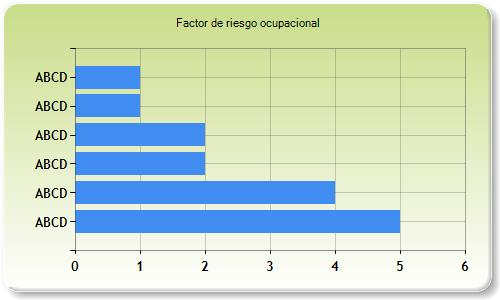
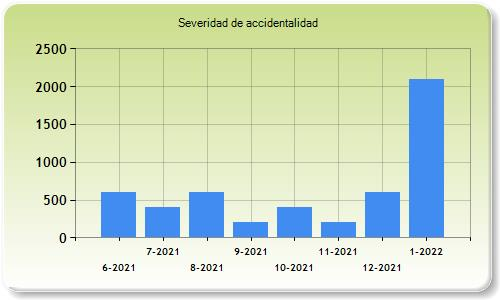
implementación matriz de riesgos pdf

diff --git a/WSafe/WSafe.Web/Models/MatrizRiesgosVM.cs b/WSafe/WSafe.Web/Models/MatrizRiesgosVM.cs
@@ -1,0 +1,109 @@
+using System.Collections.Generic;
+using System.ComponentModel.DataAnnotations;
+
+namespace WSafe.Web.Models
+{
+    public class MatrizRiesgosVM
+    {
+        public int ID { get; set; }
+        public string Formato { get; set; }
+        public string Estandar { get; set; }
+        public string Titulo { get; set; }
+        public string Fecha { get; set; }
+        public string Version { get; set; }
+        [Display(Name = "Proceso")]
+        public string Proceso { get; set; }
+        [Display(Name = "Zona / Lugar")]
+        public string Zona { get; set; }
+        [Display(Name = "Actividades")]
+        public string Actividad { get; set; }
+        public bool Rutinaria { get; set; }
+        [Display(Name = "Clasificación")]
+        public string CategoriaPeligro { get; set; }
+        [Display(Name = "Descripción")]
+        public string Peligro { get; set; }
+        [Display(Name = "Efectos posibles")]
+        public string EfectosPosibles { get; set; }
+        public string Fuente { get; set; }
+        public string Medio { get; set; }
+        public string Individuo { get; set; }
+
+        [Display(Name = "ND")]
+        public int NivelDeficiencia { get; set; }
+        [Display(Name = "NE")]
+        public int NivelExposicion { get; set; }
+        [Display(Name = "NP")]
+        public int NivelProbabilidad
+        {
+            get
+            {
+                return NivelDeficiencia * NivelExposicion;
+            }
+        }
+        [Display(Name = "Interpretación NP")]
+        public string InterpretacionNP
+        {
+            get
+            {
+                switch (NivelProbabilidad)
+                {
+                    case int p when (p >= 24):
+                        return "Muy alto (MA)";
+
+                    case int p when (p >= 10 && p < 24):
+                        return "Alto (A)";
+
+                    case int p when (p >= 8 && p < 10):
+                        return "Mdio (M)";
+
+                    default:
+                        return "Bajo (B)";
+                }
+
+            }
+        }
+        [Display(Name = "NC")]
+        public int NivelConsecuencia { get; set; }
+        [Display(Name = "NR")]
+        public int NivelRiesgo
+        {
+            get
+            {
+                return NivelProbabilidad * NivelConsecuencia;
+            }
+        }
+
+        [Display(Name = "Interpretación NR")]
+        public string CategoriaRiesgo
+        {
+            get
+            {
+                switch (NivelRiesgo)
+                {
+                    case int nr when (nr >= 600):
+                        return "I";
+
+                    case int nr when (nr >= 150 && nr < 600):
+                        return "II";
+
+                    case int nr when (nr >= 40 && nr < 150):
+                        return "III";
+
+                    default:
+                        return "IV";
+                }
+            }
+        }
+        [Display(Name = "Aceptabilidad NR")]
+        public string AceptabilidadNR { get; set; }
+        [Display(Name = "Significado NR")]
+        public string SignificadoNR { get; set; }
+        [Display(Name = "Nro. Expuestos")]
+        public int NroExpuestos { get; set; }
+        [Display(Name = "Peor consecuencia")]
+        public string PeroConsecuencia { get; set; }
+        [Display(Name = "Requisito legal")]
+        public bool RequisitoLegal { get; set; }
+        public ICollection<IntervencionVM> Intervenciones { get; set; }
+    }
+}

diff --git a/WSafe/WSafe.Web/Helpers/Implements/ConverterHelper.cs b/WSafe/WSafe.Web/Helpers/Implements/ConverterHelper.cs
@@ -664,5 +664,37 @@ namespace WSafe.Domain.Helpers.Implements
             }
             return model;
         }
+
+        public IEnumerable<MatrizRiesgosVM> ToRiesgoViewModelFul(IEnumerable<Riesgo> riesgo, int id)
+        {
+            var document = _empresaContext.Documents.FirstOrDefault(d => d.ID == id);
+            var model = new List<MatrizRiesgosVM>();
+            foreach (var item in riesgo)
+            {
+                model.Add(new MatrizRiesgosVM
+                {
+                    ID = item.ID,
+                    Formato = document.Formato,
+                    Estandar = document.Estandar,
+                    Titulo = document.Titulo,
+                    Version = document.Version,
+                    Proceso = item.Proceso.Descripcion,
+                    Zona = item.Zona.Descripcion,
+                    Actividad = item.Actividad.Descripcion,
+                    Rutinaria = item.Rutinaria,
+                    CategoriaPeligro = _empresaContext.CategoriasPeligros.Find(item.Peligro.CategoriaPeligroID).Descripcion,
+                    Peligro = item.Peligro.Descripcion,
+                    EfectosPosibles = _gestorHelper.GetEfectos(item.EfectosPosibles),
+                    NivelDeficiencia = item.NivelDeficiencia,
+                    NivelExposicion = item.NivelExposicion,
+                    Fuente = item.fue
+                    NivelConsecuencia = item.NivelConsecuencia,
+                    Aceptabilidad = item.Aceptabilidad,
+                    NroExpuestos = item.NroExpuestos,
+                    RequisitoLegal = item.RequisitoLegal
+                });
+            }
+            return model;
+        }
     }
 }

diff --git a/WSafe/WSafe.Web/Helpers/Implements/GestorHelper.cs b/WSafe/WSafe.Web/Helpers/Implements/GestorHelper.cs
@@ -298,5 +298,32 @@ namespace WSafe.Domain.Helpers.Implements
                     return "Auditoria Interna  de Calidad o de Gestión";
             }
         }
+
+        public string GetEfectos(EfectosPosibles efecto)
+        {
+            switch (efecto)
+            {
+                case EfectosPosibles.Daño_Extremo:
+                    return "Daño extremo";
+
+                case EfectosPosibles.Daño_Leve:
+                    return "Daño leve";
+
+                case EfectosPosibles.Daño_Moderado:
+                    return "Daño Moderado";
+
+                case EfectosPosibles.Daño_Propiedad:
+                    return "Daño a la propiedad";
+
+                case EfectosPosibles.Fallas_procesos:
+                    return "Fallas en los procesos";
+
+                case EfectosPosibles.Pérdidas_económicas:
+                    return "Persidas económicas";
+
+                default:
+                    return "Nomina";
+            }
+        }
     }
 }

diff --git a/WSafe/WSafe.Web/Migrations/202204141650332_CreateIntervencionesVM.Designer.cs b/WSafe/WSafe.Web/Migrations/202204141650332_CreateIntervencionesVM.Designer.cs
@@ -1,0 +1,29 @@
+// <auto-generated />
+namespace WSafe.Web.Migrations
+{
+    using System.CodeDom.Compiler;
+    using System.Data.Entity.Migrations;
+    using System.Data.Entity.Migrations.Infrastructure;
+    using System.Resources;
+    
+    [GeneratedCode("EntityFramework.Migrations", "6.1.3-40302")]
+    public sealed partial class CreateIntervencionesVM : IMigrationMetadata
+    {
+        private readonly ResourceManager Resources = new ResourceManager(typeof(CreateIntervencionesVM));
+        
+        string IMigrationMetadata.Id
+        {
+            get { return "202204141650332_CreateIntervencionesVM"; }
+        }
+        
+        string IMigrationMetadata.Source
+        {
+            get { return null; }
+        }
+        
+        string IMigrationMetadata.Target
+        {
+            get { return Resources.GetString("Target"); }
+        }
+    }
+}

diff --git a/WSafe/WSafe.Web/Controllers/RiesgosController.cs b/WSafe/WSafe.Web/Controllers/RiesgosController.cs
@@ -41,6 +41,20 @@ namespace WSafe.Web.Controllers
             return View(modelo);
         }
 
+        public async Task<ActionResult> GetAll()
+        {
+            var list = await _empresaContext.Riesgos.Include(z => z.Zona)
+                .Include(p => p.Proceso)
+                .Include(a => a.Actividad)
+                .Include(t => t.Tarea)
+                .Include(cp => cp.Peligro)
+                .Include(mi => mi.MedidasIntervencion)
+                .OrderByDescending(cr => cr.NivelRiesgo)
+                .ToListAsync();
+            var modelo = _converterHelper.ToRiesgoViewModelFul(list, 8);
+            return View(modelo);
+        }
+
         // GET: Riesgos/Details/5
         public async Task<ActionResult> Details(int? id)
         {

diff --git a/WSafe/WSafe.Web/Models/IntervencionVM.cs b/WSafe/WSafe.Web/Models/IntervencionVM.cs
@@ -1,0 +1,21 @@
+using System.ComponentModel.DataAnnotations;
+
+namespace WSafe.Web.Models
+{
+    public class IntervencionVM
+    {
+        public int ID { get; set; }
+        [Display(Name = "Eliminación")]
+        public string Eliminacion { get; set; }
+        [Display(Name = "Sustitución")]
+        public string Sustitucion { get; set; }
+        [Display(Name = "Controles de ingeniería")]
+        public string Ingenieria { get; set; }
+        [Display(Name = "Administración")]
+        public string Administracion { get; set; }
+        [Display(Name = "Señalización")]
+        public string Señalizacion { get; set; }
+        [Display(Name = "Equipos / EPP")]
+        public string EPP { get; set; }
+    }
+}

diff --git a/WSafe/WSafe.Web/Helpers/IConverterHelper.cs b/WSafe/WSafe.Web/Helpers/IConverterHelper.cs
@@ -12,6 +12,7 @@ namespace WSafe.Domain.Helpers
         RiesgoViewModel ToRiesgoViewModel(Riesgo riesgo);
         RiesgoViewModel ToRiesgoViewModelNew();
         AccionViewModel ToAccionViewModel(Accion accion);
+        IEnumerable<MatrizRiesgosVM> ToRiesgoViewModelFul(IEnumerable<Riesgo> riesgo, int id);
         IEnumerable<ListaRiesgosVM> ToRiesgoViewModelList(IEnumerable<Riesgo> riesgo);
         Task<Accion> ToAccionAsync(Accion model, bool isNew);
         AccionViewModel ToAccionViewModelNew();

diff --git a/WSafe/WSafe.Web/Migrations/202204141650332_CreateIntervencionesVM.cs b/WSafe/WSafe.Web/Migrations/202204141650332_CreateIntervencionesVM.cs
@@ -1,0 +1,16 @@
+namespace WSafe.Web.Migrations
+{
+    using System;
+    using System.Data.Entity.Migrations;
+    
+    public partial class CreateIntervencionesVM : DbMigration
+    {
+        public override void Up()
+        {
+        }
+        
+        public override void Down()
+        {
+        }
+    }
+}

diff --git a/WSafe/WSafe.Web/Helpers/IGestorHelper.cs b/WSafe/WSafe.Web/Helpers/IGestorHelper.cs
@@ -20,5 +20,6 @@ namespace WSafe.Domain.Helpers
         string GetTipoVinculacion(TiposVinculacion tipo);
         string GetCausaAccion(CategoriasCausa categoria);
         string GetFuenteAccion(FuentesAccion fuentes);
+        string GetEfectos(EfectosPosibles efecto);
     }
 }
